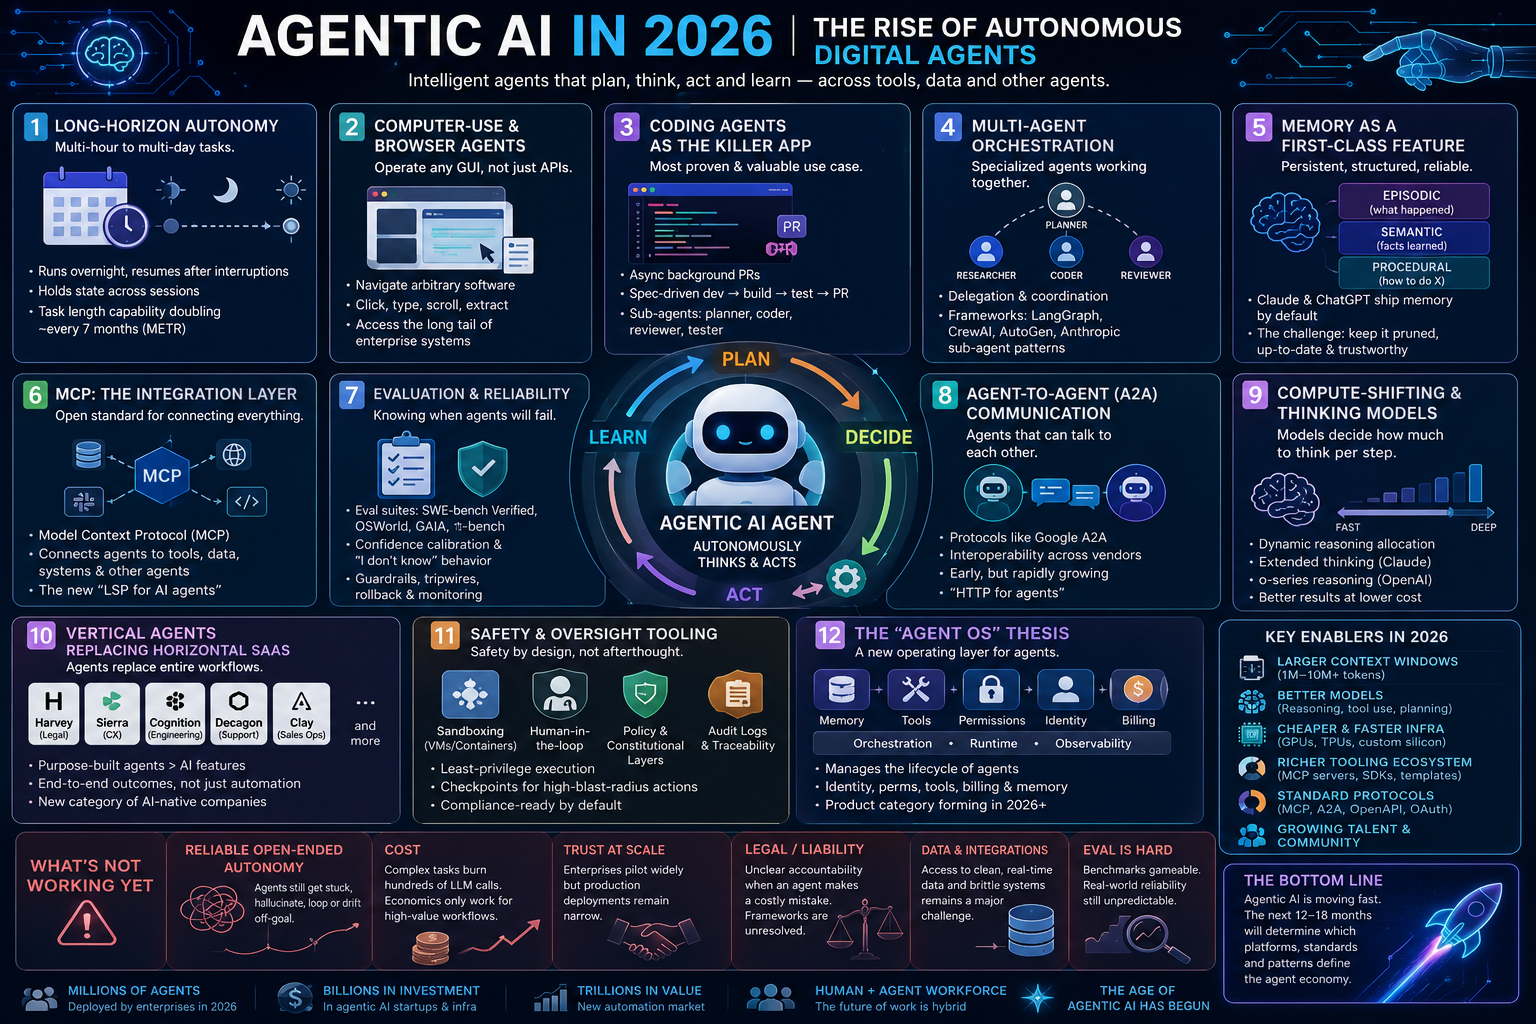
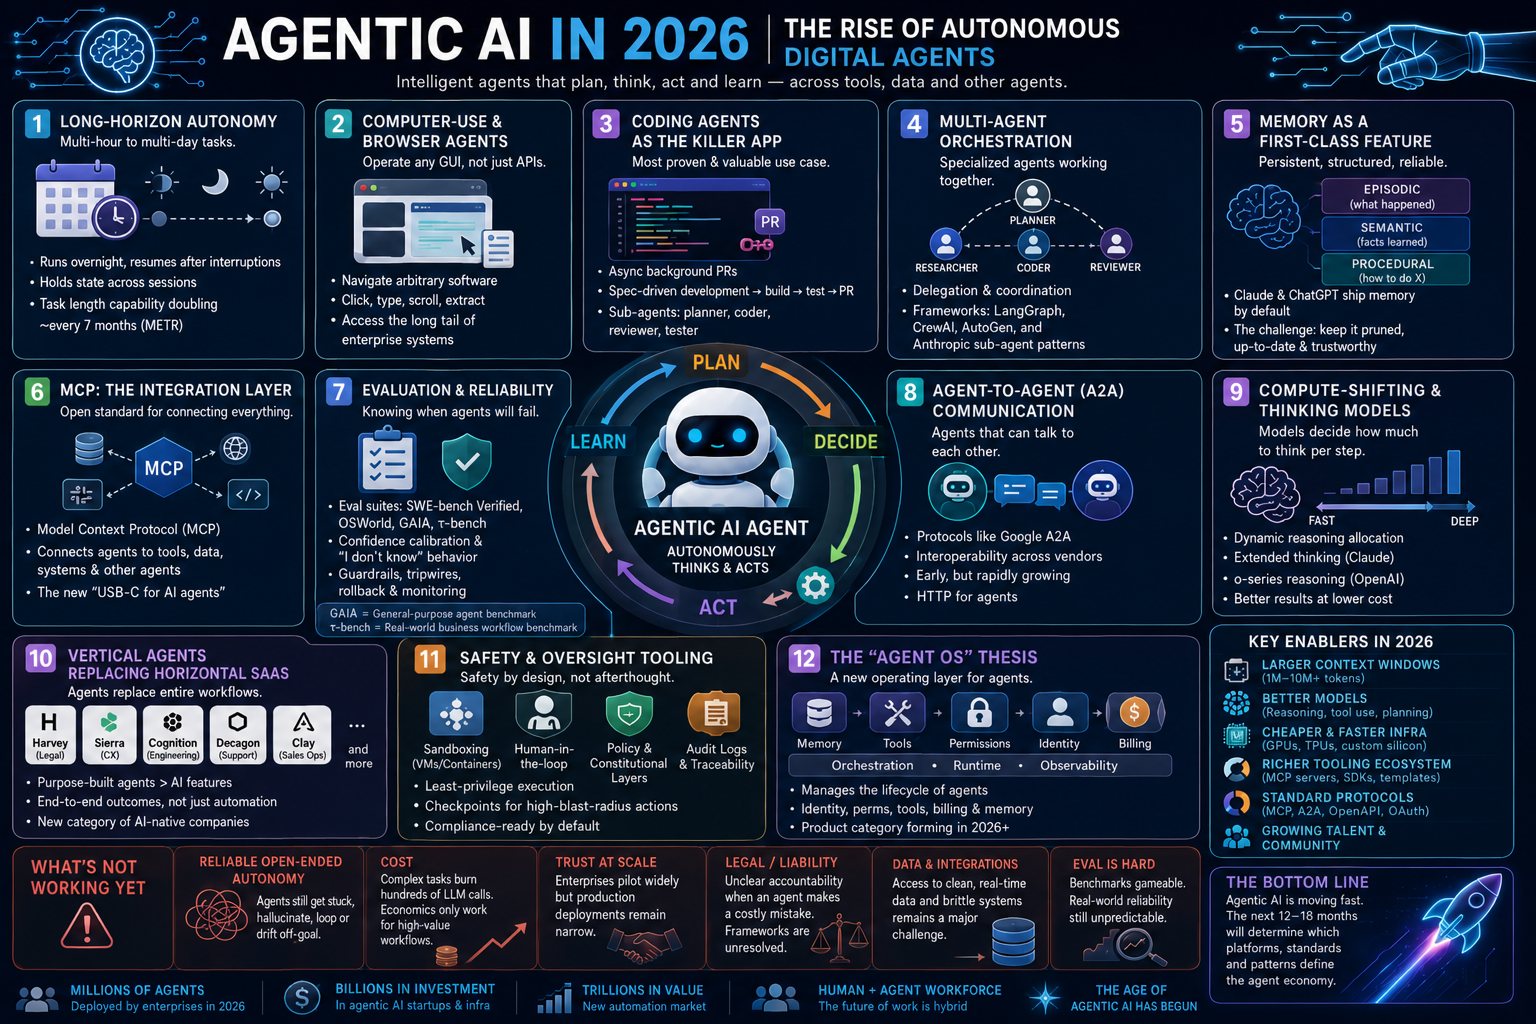
Summarize API-vs-computer-use stance; add design patterns reference
- Add an "In summary" callout under Computer-Use & Browser Agents
  distilling the four reasons computer-use is the wrong tool when
  alternatives exist, the API -> MCP -> GUI agent rule of thumb, and
  the bridge-not-default mental model. Regenerate the course PDF
  and refresh the cover screenshot.
- Add 'design patterns.pdf' to the course materials.

diff --git a/2- Enhanced Agentic AI.md b/2- Enhanced Agentic AI.md
@@ -83,6 +83,8 @@ A *computer-use* (or *browser*) agent is given a screenshot of a screen — a de
 - QA: exercising your *own* web app end-to-end through the real UI, the way a user would.
 - Migrating data out of a SaaS tool whose only "export" is clicking through screens.
 
+> **In summary — is computer-use a replacement for APIs? No.** It is **slow**, **expensive**, **error-compounding** (a 95%-reliable step is only ~60% reliable across ten steps), and the **riskiest pattern** to operate. The rule of thumb is **API first → MCP server second → GUI agent only as the fallback.** Its niche is the **long tail** of legacy ERPs, Citrix terminals, vendor portals, and orphaned internal tools that never got APIs — a *bridge* to systems you can't integrate any other way, not a default. **API where possible, computer-use where necessary — and only with production-grade guardrails when used.**
+
 > **The mental model:** Long-horizon autonomy (#1) tells you agents can now *sustain* multi-step work; computer-use is what lets that work reach the **systems APIs forgot.** The two together are why 2026 agents start showing up in workflows that resisted automation for twenty years.
 
 ### The Inflection Point: Long-Horizon Autonomy & Computer-Use